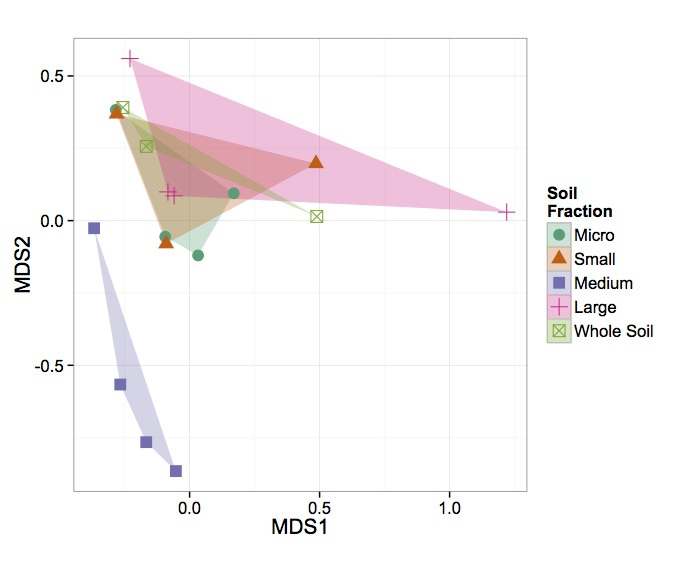
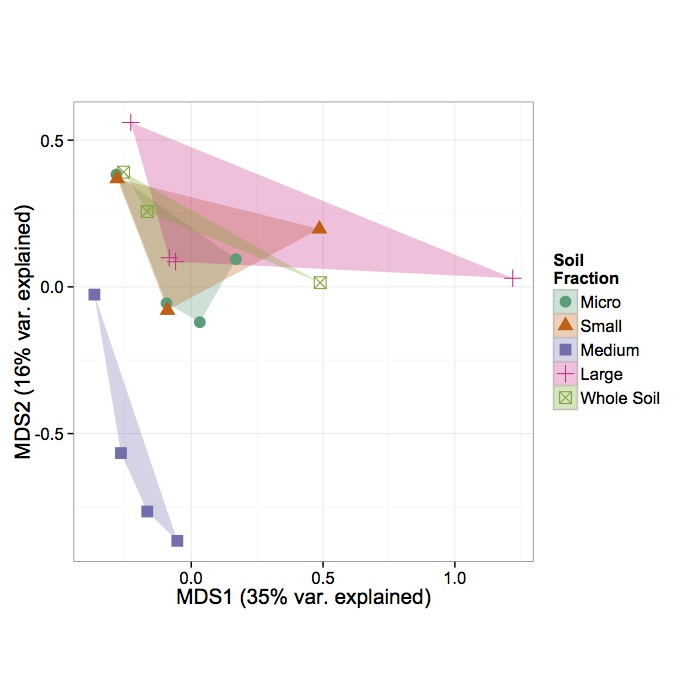
changes to walkthrough

diff --git a/walkthrough/README.md b/walkthrough/README.md
@@ -31,9 +31,10 @@ Look at the dataset before going into R (in other words type ``quit()`` if you a
 
 What do you notice about this file?  How is it organized?  How is it delimited?
 
-Go into the R environment and read in the data with ``read.table()``...it'll go something like this
+Go into the R environment and read in the data with ``fread()`` from the `data.table` library...it'll go something like this
 ```
-dataset<-read.table("...path\to\file...", sep="\t",header=TRUE)
+library(data.table)
+dataset<-fread("COBS_round1_metaG_mgrast_annotation_data_matrix.txt",sep="\t",header=TRUE, data.table=FALSE)
 ```
 Look at a subset of the data using `head()`, `tail()`, `str()`, and `dim()`.  Select a subset of the data using indexes like this
 ```
@@ -168,6 +169,12 @@ pcoa_species<-data.frame(dataset[,1:5],scores(pcoa)$species)
 ```
 Note that there are `sites`, which refer to the location of points while `species` refer to the head of a vector representing the direction of variation for a particular variable originating from (0,0)
 
+We can also figure out how much variance is explained in each orthogonal dimension (e.g. axis 1, axis 2, etc.)
+```
+var_explained<-eigenvals(pcoa)/sum(eigenvals(pcoa))
+```
+If we look at this object, we can see how much variance is explained in each direction
+
 Let's make hulls and organize as we did previously
 ```
 hull_data_pcoa<-data.frame()
@@ -185,6 +192,6 @@ levels(hull_data_pcoa$SoilFrac)<-c("Micro","Small","Medium","Large","Whole Soil"
 
 Now plot it
 ```
-ggplot()+geom_polygon(data=hull_data_pcoa,aes(x=MDS1,y=MDS2,fill=SoilFrac,group=SoilFrac),alpha=0.3)+geom_point(data=pcoa_sites,aes(x=MDS1,y=MDS2,shape=SoilFrac,colour=SoilFrac),size=4)+theme_bw(base_size=15)+theme(aspect.ratio=1)+scale_colour_manual(name="Soil\nFraction",values=brewer.pal(5,"Dark2"))+scale_fill_manual(name="Soil\nFraction",values=brewer.pal(5,"Dark2"))+scale_shape_discrete(name="Soil\nFraction")
+ggplot()+geom_polygon(data=hull_data_pcoa,aes(x=MDS1,y=MDS2,fill=SoilFrac,group=SoilFrac),alpha=0.3)+geom_point(data=pcoa_sites,aes(x=MDS1,y=MDS2,shape=SoilFrac,colour=SoilFrac),size=4)+theme_bw(base_size=15)+theme(aspect.ratio=1)+scale_colour_manual(name="Soil\nFraction",values=brewer.pal(5,"Dark2"))+scale_fill_manual(name="Soil\nFraction",values=brewer.pal(5,"Dark2"))+scale_shape_discrete(name="Soil\nFraction")+labs(x="MDS1 (35% var. explained)",y="MDS2 (16% var. explained)")
 ```
 ![alt text][pcoa_no_arrows]
